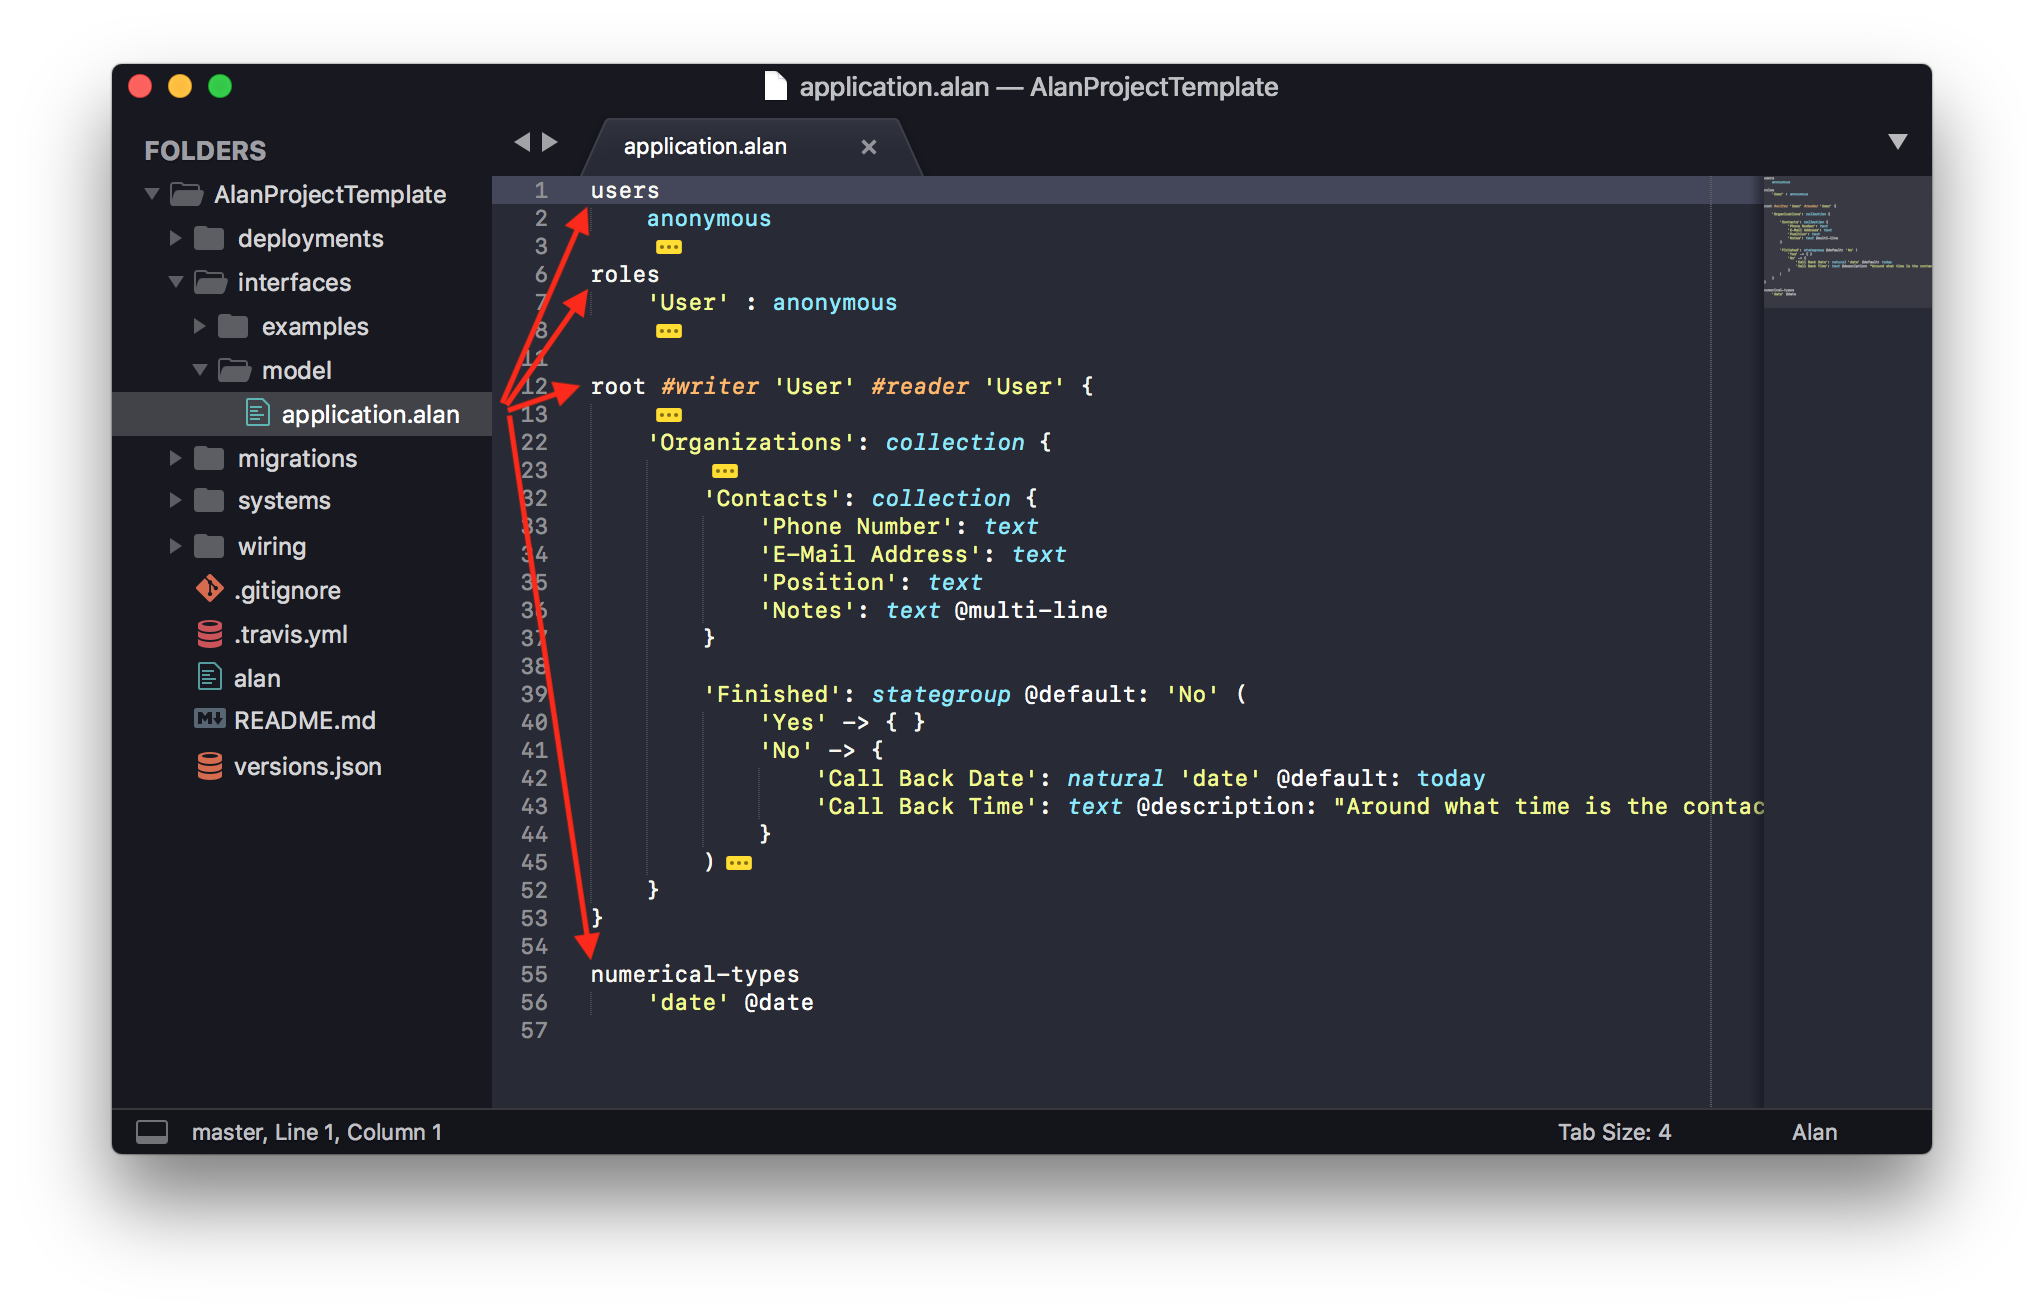
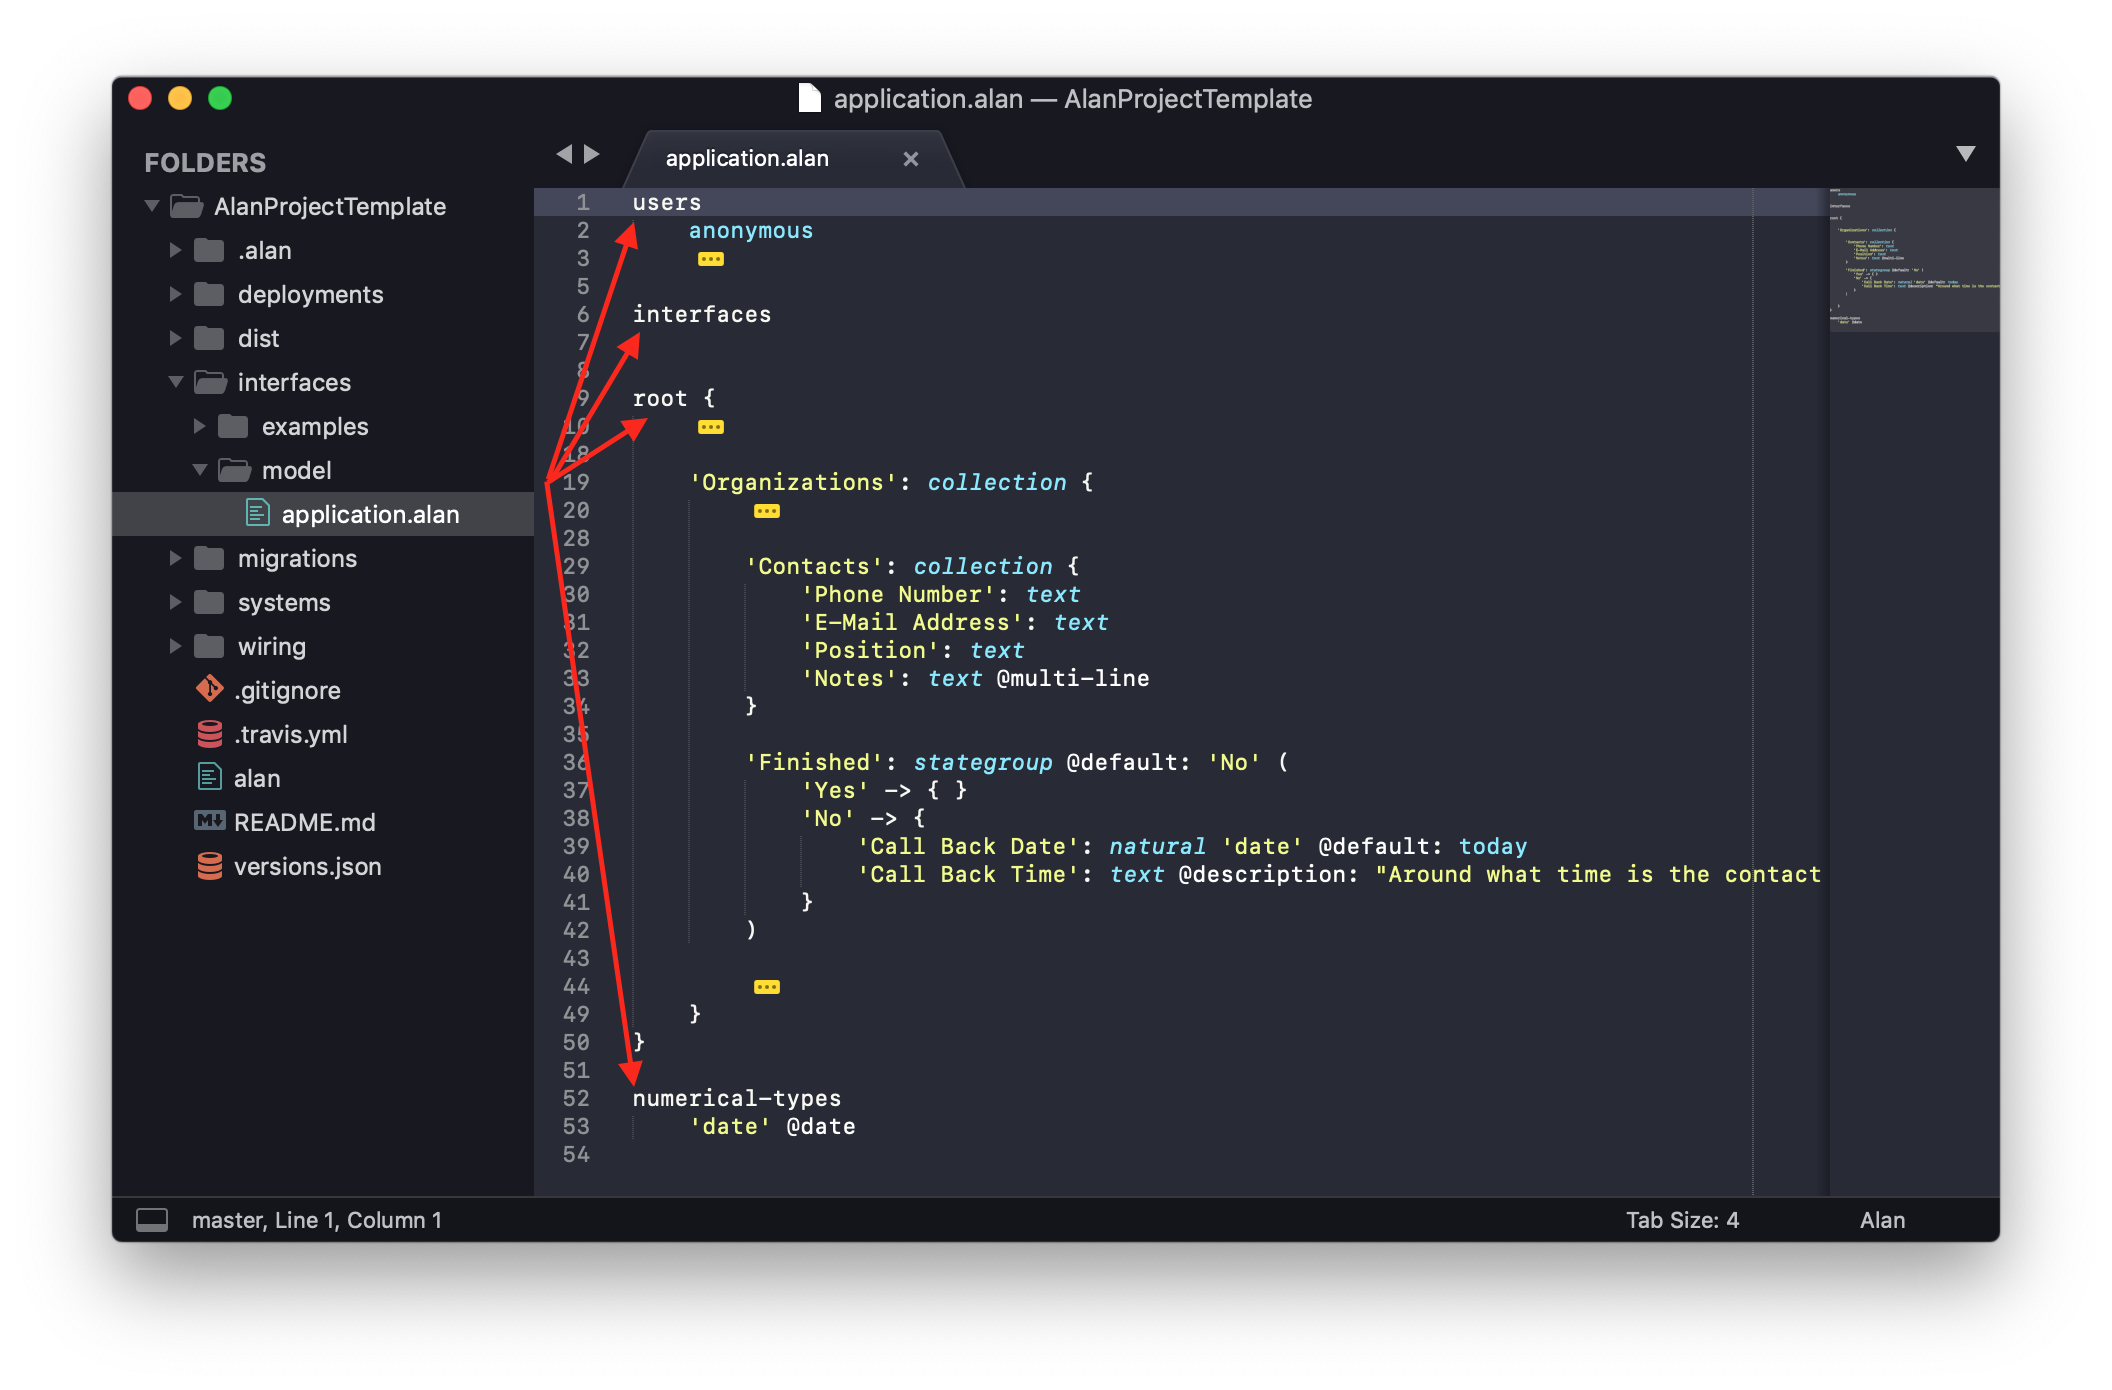
update mentions of permissions

diff --git a/pages/tuts/getting-started.md b/pages/tuts/getting-started.md
@@ -66,10 +66,10 @@ The template already has a little model set up that covers some basics. Let's wa
 The model is a nested structure not unlike [JSON](https://json.org). At the first level you'll see some keywords:
 - [users](https://github.com/M-industries/AlanProjectTemplate/blob/bb862edd3be27df167400cbbc405aa3509d47da4/interfaces/model/application.alan#L1)  
 	There is some boiler plate here that currently allows anonymous users, so you can use the application without logging in. 
-- [roles](https://github.com/M-industries/AlanProjectTemplate/blob/bb862edd3be27df167400cbbc405aa3509d47da4/interfaces/model/application.alan#L6)  
-	Permissions are currently set using roles. Users are assigned to roles to give them read and/or write access to parts of the data.
+- [interfaces](https://github.com/M-industries/AlanProjectTemplate/blob/e12c45306d10461c47218ec11ed872002fbce1f5/interfaces/model/application.alan#L6)  
+	Interfaces are declared here so that they can be assigned permissions to access parts of the application model.
 - [root](https://github.com/M-industries/AlanProjectTemplate/blob/bb862edd3be27df167400cbbc405aa3509d47da4/interfaces/model/application.alan#L12)  
-	This is where your model really starts. Note the basic write and read permissions that are set here.
+	This is where your model really starts.
 - [numerical-types](https://github.com/M-industries/AlanProjectTemplate/blob/bb862edd3be27df167400cbbc405aa3509d47da4/interfaces/model/application.alan#L55)  
 	Numbers have types, like "date" or units like "kg". Number types can be converted between for calculations (e.g. to get "meters per second") etc. 
 

diff --git a/pages/faq.md b/pages/faq.md
@@ -28,7 +28,9 @@ If you want more control over the user interface, e.g. to create one for a speci
 
 
 ## Can I limit permissions on certain properties
-Permissions use role based access control. The [Hours application](https://github.com/M-industries/Hours/blob/cfc59c310134a0be174369b3ecf58363107c472d/shared/models/hours/application.alan#L47) sets `#writer` and `#reader` access on several nodes to limit their permissions where necessary.
+Permissions are set on nodes, i.e. groups, entries and states. You can set read and update permissions to limit access to specific users, or users with a specific role.
+
+The [Hours application](https://github.com/M-industries/Hours/blob/master/interfaces/model/application.alan) has several examples of permissions for specific (groups of) users.
 
 
 ## Can I create 2-way many-to-many relations

diff --git a/pages/future.md b/pages/future.md
@@ -7,9 +7,6 @@ permalink: /roadmap/
 
 Alan is already used by [M-industries](https://www.m-industries.com) and [Kjerner](https://www.kjerner.com/) to build solutions for their clients. However, we're not done yet improving the platform and creating new and better features. 
 
-Short term we want to finish our new permission model, which will move away from strictly roles based rules to fully dynamic and contextual permissions and specific ownership.  
-Assigning todos works just like assigning ownership, so we're tackling that in the same development cycle.
-
 Long term plans include:
 
 - Todos could become a primary driver for the interaction with an application. 
